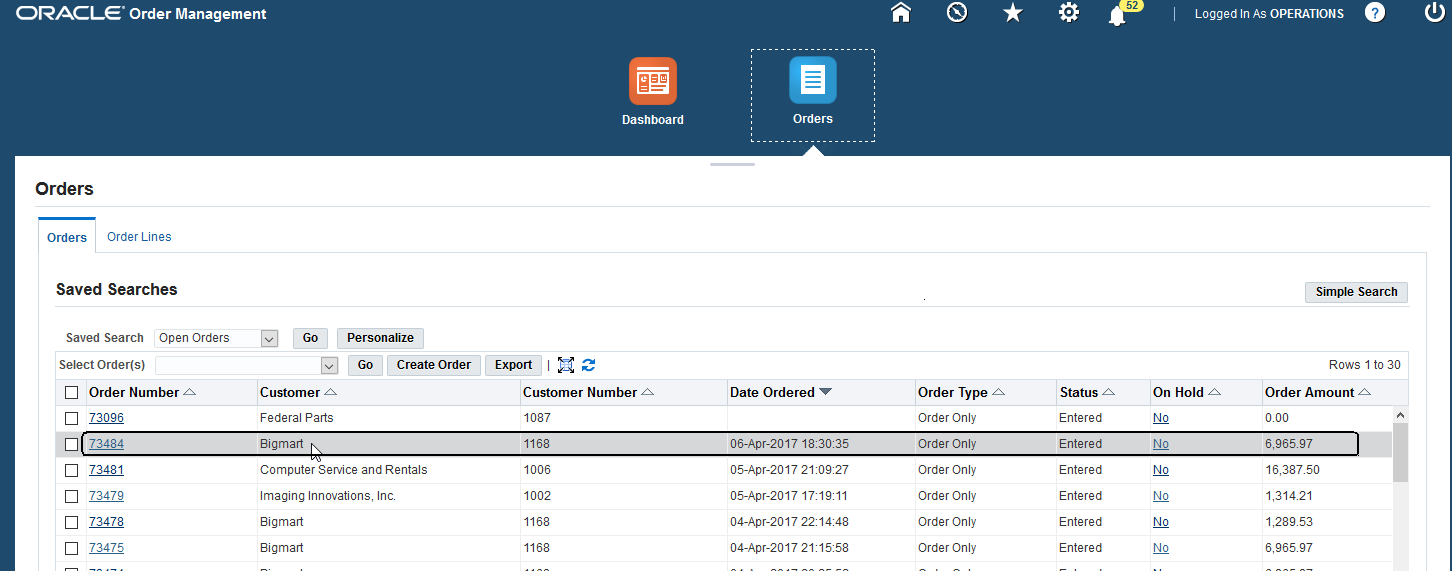
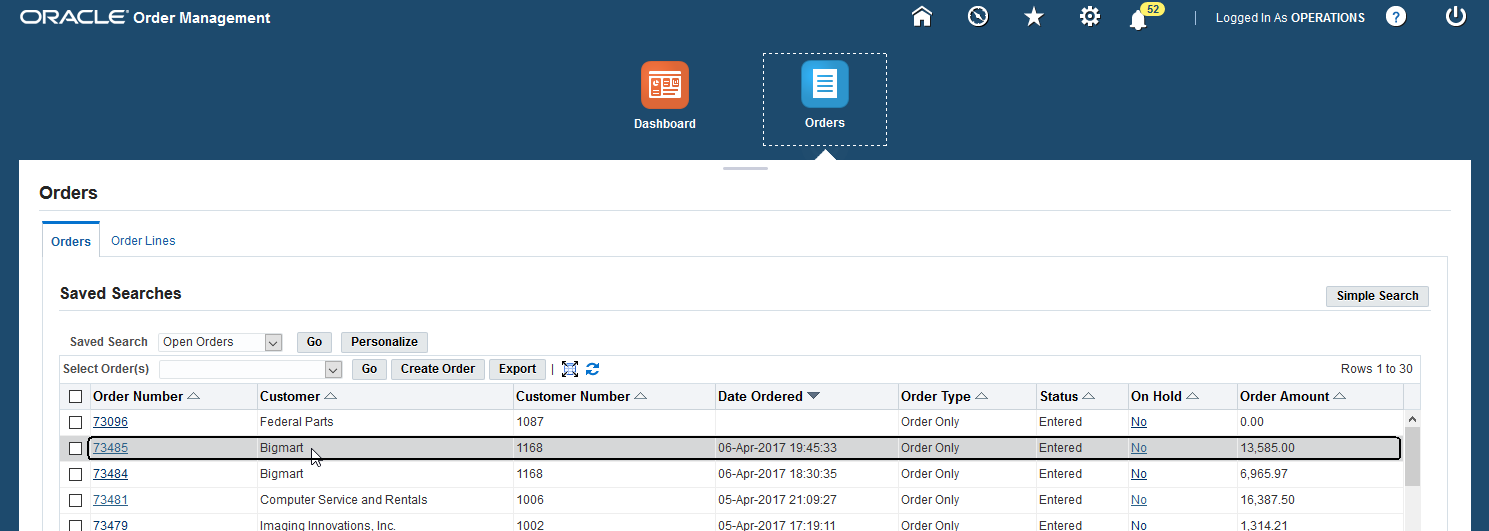
Final updates to Lab 300

diff --git a/touch-the-cloud/TouchTheCloud300.md b/touch-the-cloud/TouchTheCloud300.md
@@ -924,7 +924,7 @@ Click on the task so we can see the approval form.
 
 ![](images/300/image117.png)
 
-**3.4.14** Select the **Completed** checkbox - by default because only the `In Progress`, `Suspended`, and `Completed` are shown.
+**3.4.14** Select the **Completed** checkbox - by default because only the `In Progress`, `Suspended`, and `Completed` are shown by default.
 
 ![](images/300/image118.png)
 
@@ -942,7 +942,7 @@ Click on the task so we can see the approval form.
 
 ![](images/300/image126.png)
 
-**3.4.19** Observe the entire PCS process flow.  The _green highlighted lines_ indicate the path of the successful process flow.
+**3.4.19** Observe the entire PCS process flow.  Note again that the _green highlighted lines_ indicate the path of the successful process flow.
 
 ![](images/300/image127.png)
 
@@ -983,6 +983,8 @@ Now we want to be sure that the callout made by PCS to ICS worked and that the p
    ![](images/300/image108.png)
 
 **3.6.3** Examine the list in the *Open Orders* report and verify that your new order shows up in the list.
+
+Note that the _Order Amount_ shown is larger than that of the quote because of shipping costs and taxes that were added automatically by EBS .
 
    ![](images/300/image109.png)
 
